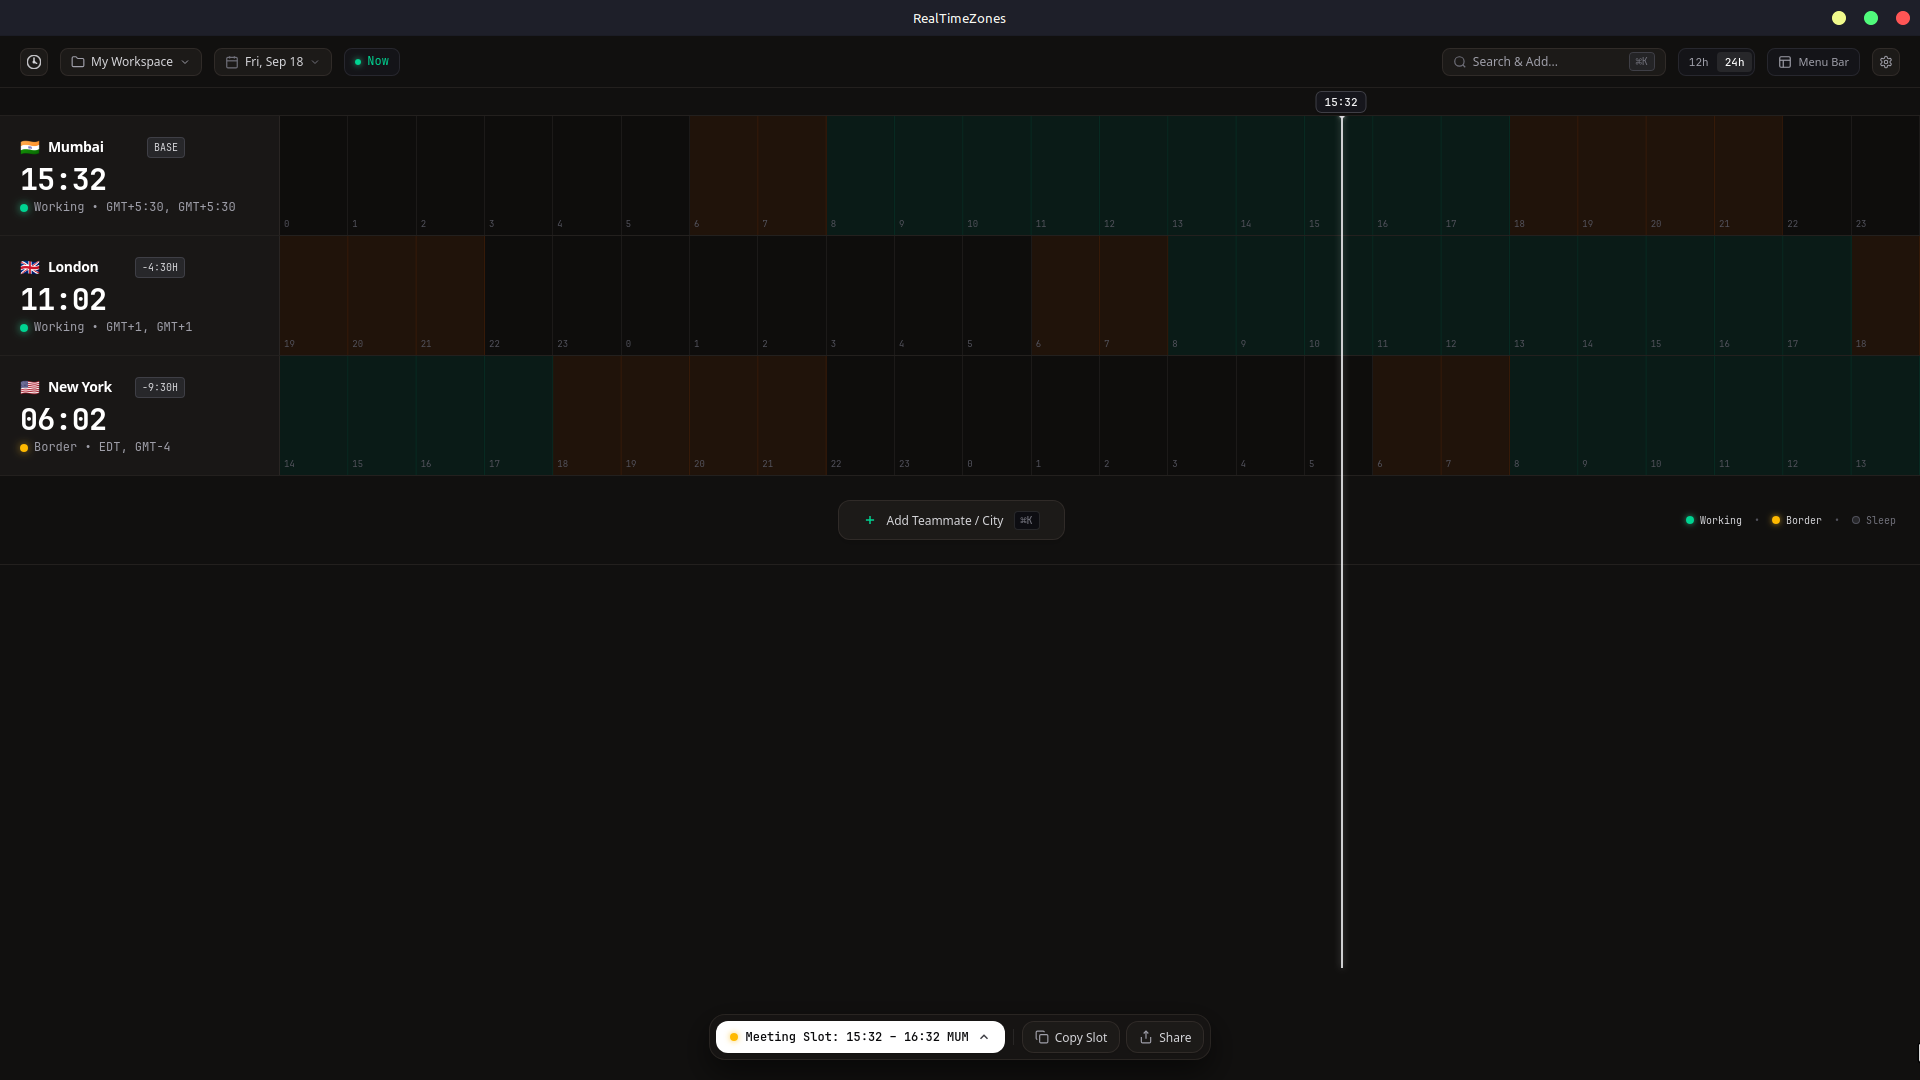
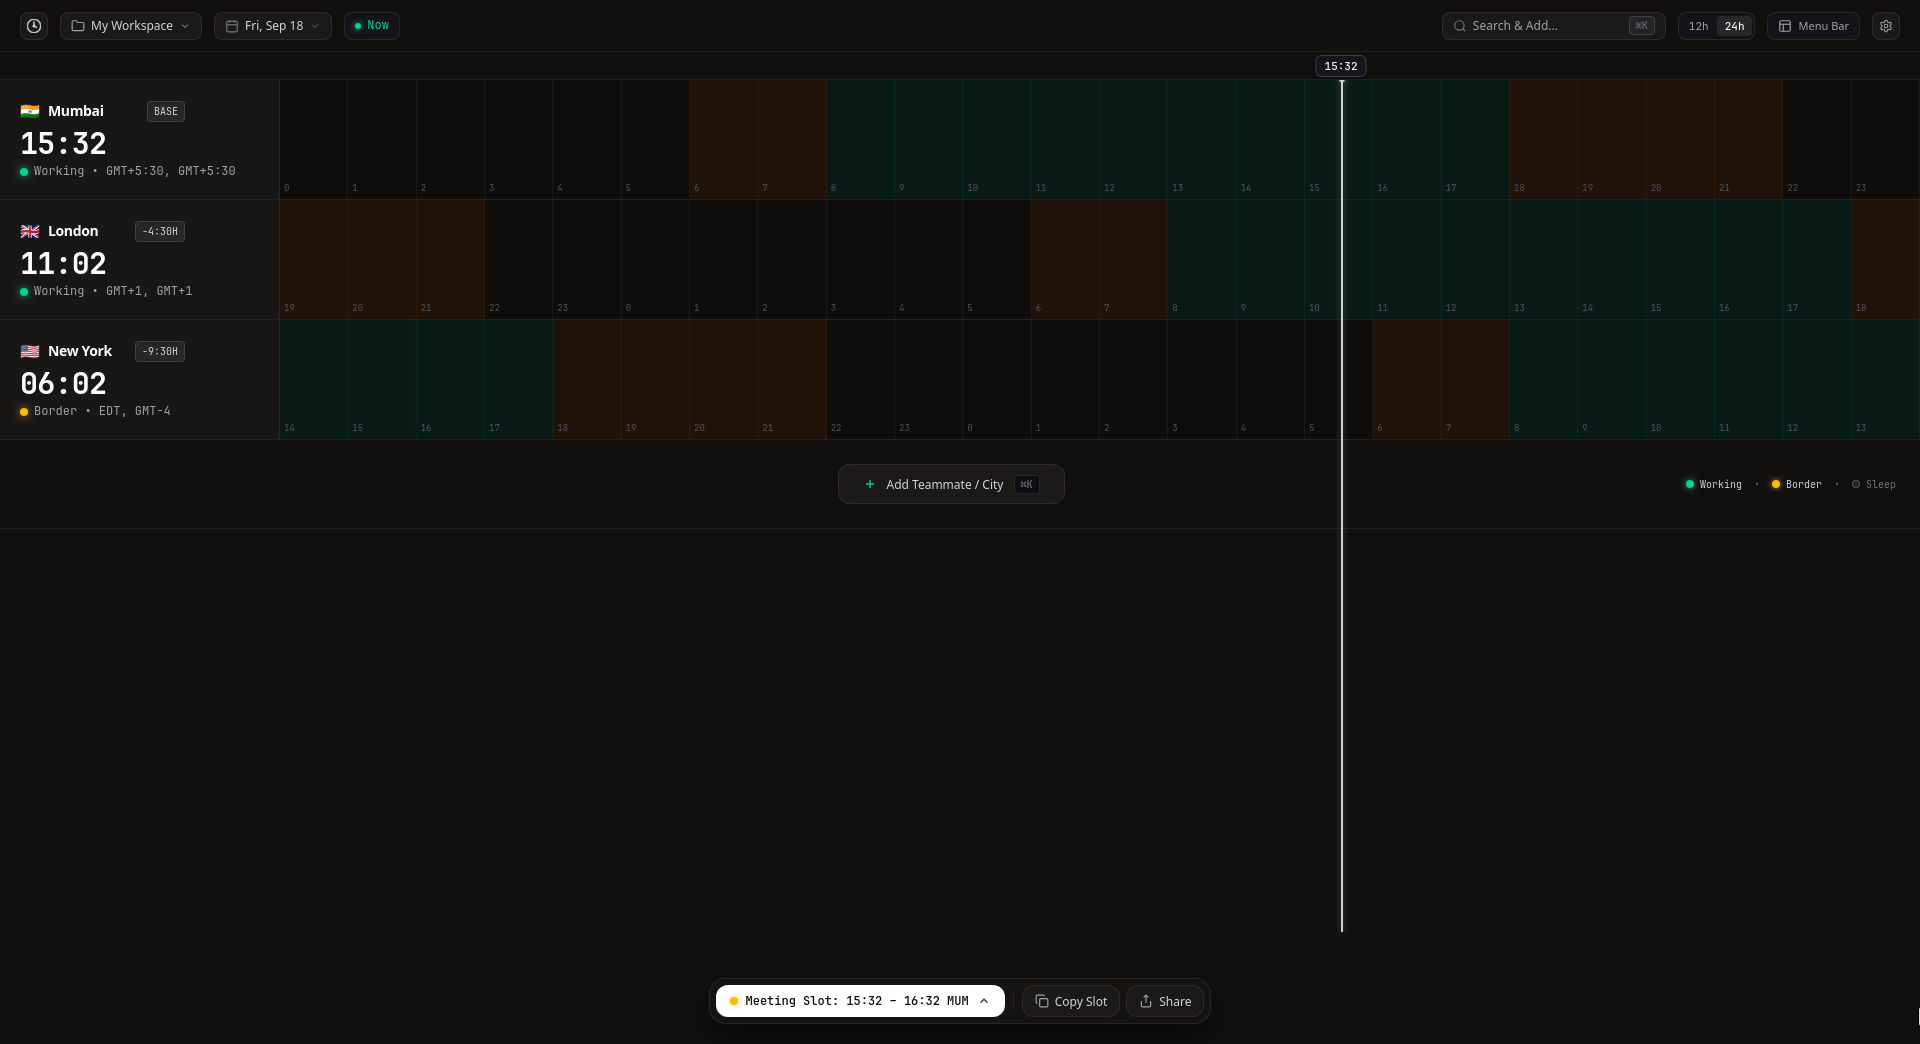
fix: remove duplicate window titlebar and traffic lights from desktop frame

diff --git a/src/styles/marketing.css b/src/styles/marketing.css
@@ -794,10 +794,10 @@
 }
 
 .desktop-image-crop img {
+  display: block;
   width: 100%;
   height: auto;
   border-radius: 3px;
-  transform: translateY(-3.333333%);
 }
 
 .menu-bar-inset {
@@ -950,9 +950,10 @@
 }
 
 .workspace-image-crop img {
+  display: block;
   width: 100%;
   height: auto;
-  transform: translateY(-3.333333%);
+  border-radius: 3px;
 }
 
 .capabilities-download {
